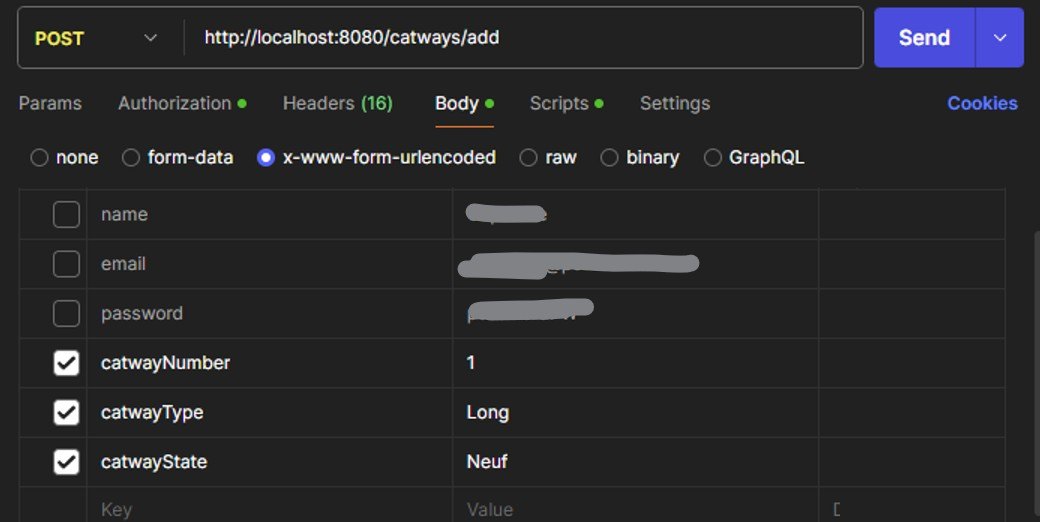
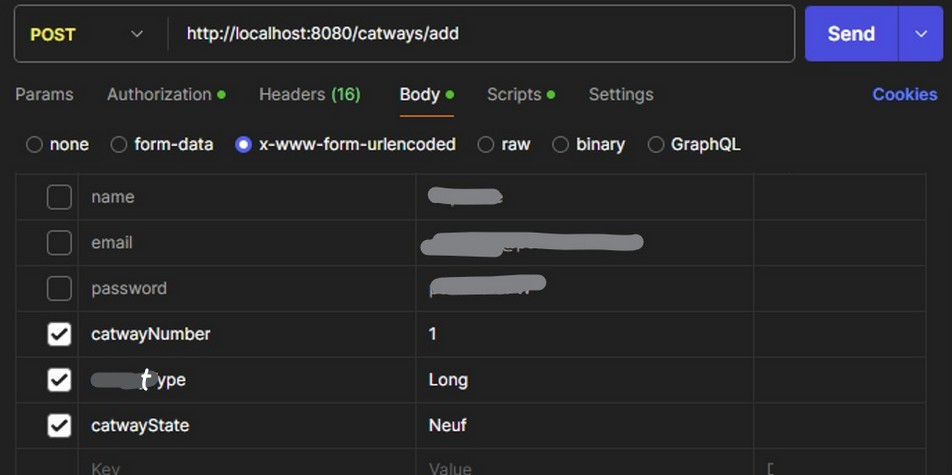
catwaynumber unique et modif documentation

diff --git a/api/public/components/documentation.html b/api/public/components/documentation.html
@@ -82,7 +82,7 @@
         <p>Complétez les 3 champs : 
             <ul>
                 <li><b>catwayNumber</b> (doit être un numéro unique)</li>
-                <li><b>catwayType</b> ["long" ou "short"] avec une tolérance pour la casse</li>
+                <li><b>type</b> ["long" ou "short"] avec une tolérance pour la casse</li>
                 <li><b>catwayState</b> maximum 100 caractères de long</li>
             </ul>
         </p>
@@ -97,7 +97,7 @@
         <p>Avec le ou les 3 champs modifiés : 
             <ul>
                 <li><b>catwayNumber</b> (doit être un numéro unique)</li>
-                <li><b>catwayType</b> ["long" ou "short"] avec une tolérance pour la casse</li>
+                <li><b>type</b> ["long" ou "short"] avec une tolérance pour la casse</li>
                 <li><b>catwayState</b> maximum 100 caractères de long</li>
             </ul>
         </p>
@@ -123,7 +123,7 @@
                     <li><b>checkIn</b> et <b>checkIn</b> : date sous le format ISO 8601 (YYYY-MM-DDT10:00:00Z)</li>
                 </ul>
         </p>
-        <p>Le champ catwayNumber est automatiquement complété via l’url. Cliquez sur Send.</p>
+        <p>Cliquez sur Send. La réservation est créée sur le catway dont l'id est indiqué dans l'url.</p>
 
         <div><a href="#top"><button class="btn-top">Remonter en haut de la page</button></a></div>
                 
@@ -167,7 +167,6 @@
         <ul class="glossaire"> 
             <strong>Concepts métier</strong>
         <ul> 
-            <li><strong>API REST</strong> (Representational State Transfer) : Architecture permettant la communication entre le frontend et le backend via des requêtes HTTP (<code>GET</code>, <code>POST</code>, <code>PATCH</code>, <code>DELETE</code>).</li> 
             <li><strong>Catway</strong> : Emplacement destiné à l'amarrage d’un bateau. Il est identifié par un ID unique au sein de la base de données.</li> 
             <li><strong>Check-In, Check-Out</strong> : Date et heure prévues d’arrivée et de départ du bateau au catway (format ISO <code>YYYY-MM-DDTHH:mm:ssZ</code>).</li> 
             <li><strong>État du Catway</strong> : Indicateur de l'état du catway (ex. <code>Libre</code>, <code>Occupé</code>, <code>Réservé</code>, <code>En maintenance</code>).</li> 
@@ -179,6 +178,7 @@
         <ul class="glossaire"> 
             <strong>Outils techniques</strong>
         <ul> 
+            <li><strong>API REST</strong> (Representational State Transfer) : Architecture permettant la communication entre le frontend et le backend via des requêtes HTTP (<code>GET</code>, <code>POST</code>, <code>PATCH</code>, <code>DELETE</code>).</li> 
             <li><strong>Express.js</strong> : Framework backend pour Node.js permettant de créer des applications web et APIs rapidement avec un système de routage et de gestion des requêtes HTTP.</li> 
             <li><strong>Fetch API</strong> : Méthode JavaScript utilisée côté frontend pour envoyer des requêtes HTTP à l'API backend.</li> 
             <li><strong>JSON</strong> (JavaScript Object Notation) : Format d’échange de données utilisé entre le frontend et le backend.</li> 

diff --git a/api/models/catway.js b/api/models/catway.js
@@ -5,7 +5,7 @@ const Catway = new Schema({
     catwayNumber: {
         type: Number,
         trim: true,
-        unique: false, // le numéro de pont n'est pas unique
+        unique: true, // le numéro de pont est unique
         required: [true, "Le numéro de pont est requis"]
     },
     type : {
